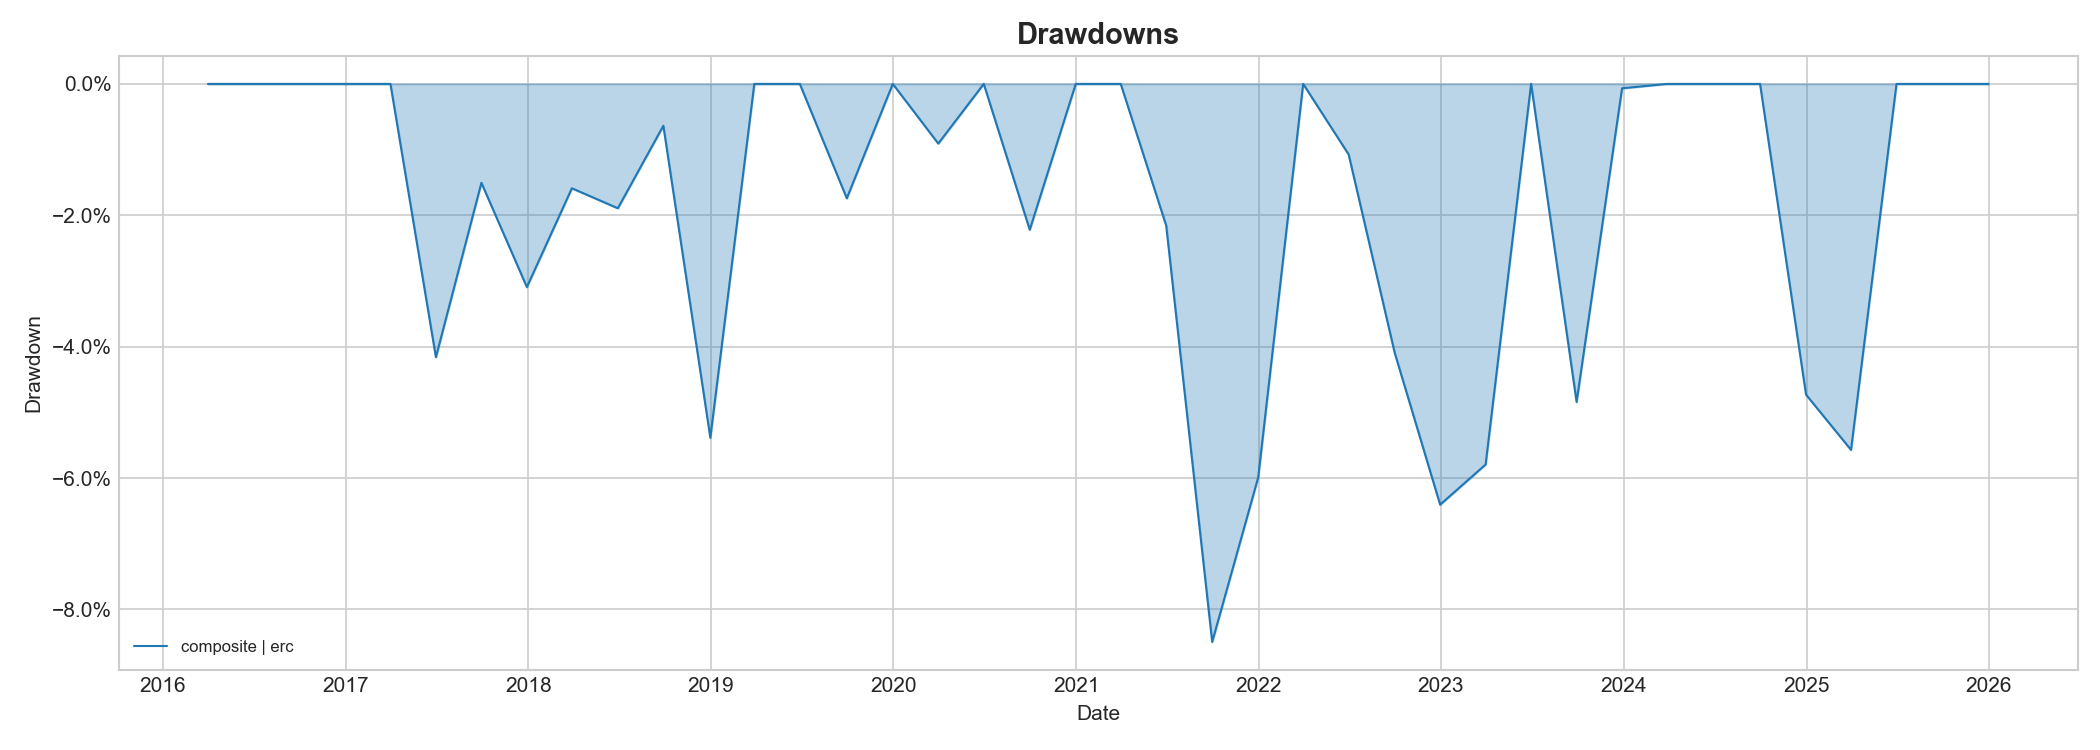
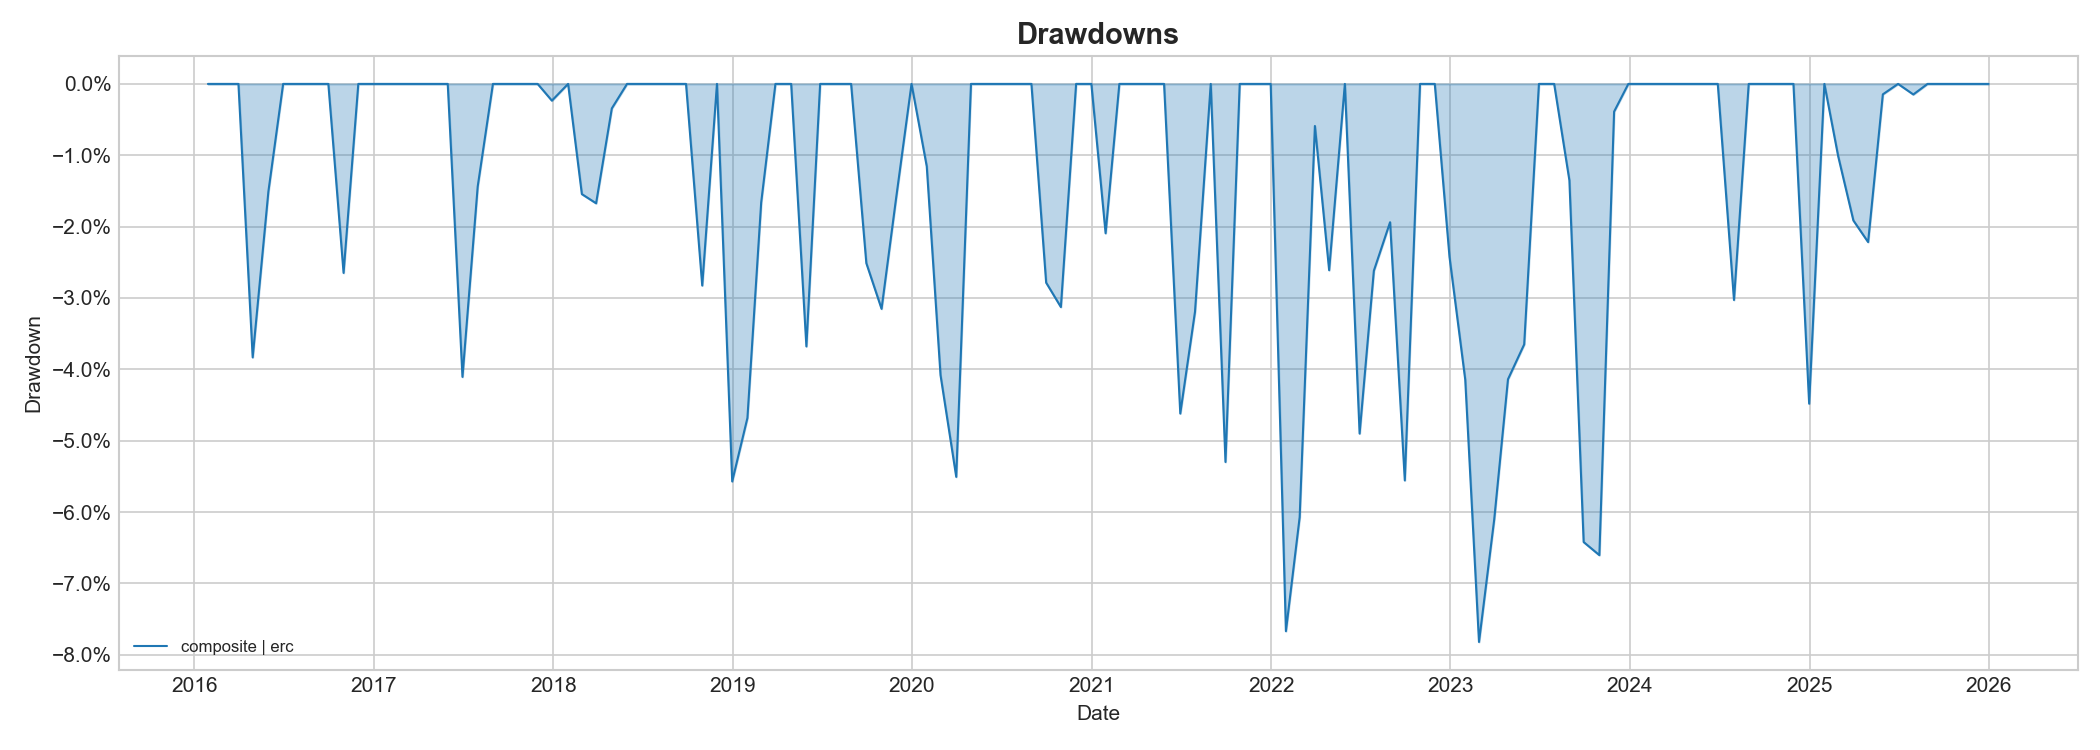
CONFIG UPDATE: Rebalancement mensuel + coûts 5bps
- REBAL_FREQ: Q -> M (mensuel)
- TRANSACTION_COST_BPS: 0.5 -> 5 bps (plus réaliste)

Impact attendu:
- Plus de réactivité mais turnover élevé
- Sharpe légèrement réduit mais plus crédible

diff --git a/config.py b/config.py
@@ -30,7 +30,7 @@ SIGNAL_WEIGHTS = {
 ALLOCATION_METHOD = "erc"    # Equal Risk Contribution uniquement
 
 # ──────────────────────────── Coûts ──────────────────────────────
-TRANSACTION_COST_BPS = 0.5  # 0.5 bps par transaction (ultra-minimal)
+TRANSACTION_COST_BPS = 5    # 5 bps par transaction
 
 # ──────────────────────────── Stop-loss ──────────────────────────
 STOPLOSS_POSITION    = -0.10   # -10 % depuis entrée
@@ -40,7 +40,7 @@ STOPLOSS_VOL_WINDOW  = 60     # fenêtre vol (jours) pour stop vol-based
 STOPLOSS_VOL_MULT    = 2.0    # multiplicateur vol
 
 # ──────────────────────────── Rebalancement ──────────────────────
-REBAL_FREQ = "Q"            # trimestriel (optimal Sharpe vs coûts)
+REBAL_FREQ = "M"            # mensuel (plus de réactivité)
 
 # ──────────────────────────── Risk-free ──────────────────────────
 RF_ANNUAL = 0.0             # fallback si la feuille Excel n'est pas disponible
